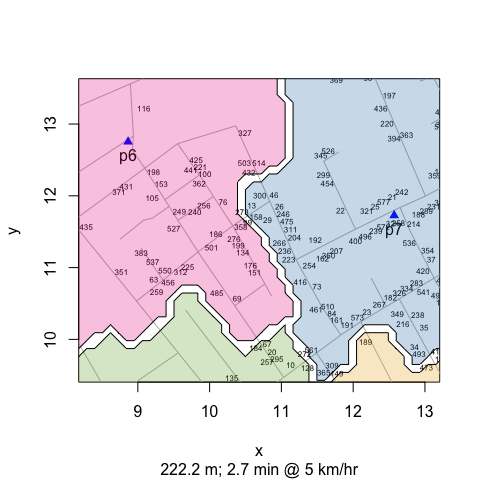
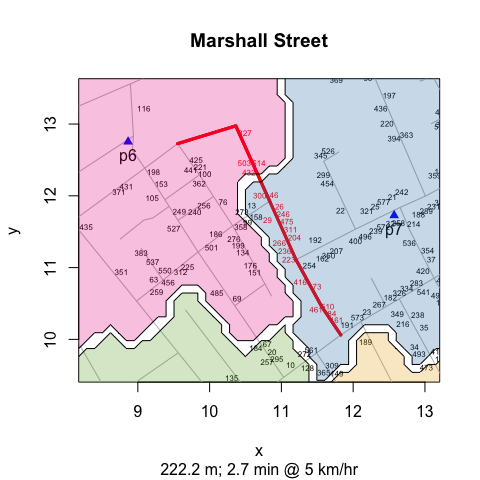
amend Marshall Street plot

diff --git a/README.md b/README.md
@@ -1,8 +1,5 @@
 
 <!-- README.md is generated from README.Rmd. Please edit that file -->
-[![CRAN\_Status\_Badge](http://www.r-pkg.org/badges/version/cholera)](https://cran.r-project.org/package=cholera)
-[![GitHub\_Status\_Badge](https://img.shields.io/badge/GitHub-0.5.1.9024-red.svg)](https://github.com/lindbrook/cholera/blob/master/NEWS)
-
 cholera: amend, augment and aid analysis of Snow's cholera map
 --------------------------------------------------------------
 
@@ -90,8 +87,7 @@ plot(neighborhoodWalking(case.set = "expected"), type = "area.polygons")
 The main virtue of the polygon approach is that it better lends itself to building graphs at different scales:
 
 ``` r
-streetNameLocator("marshall street", zoom = TRUE, highlight = FALSE,
-  add.title = FALSE, radius = 0.5)
+streetNameLocator("marshall street", zoom = TRUE, radius = 0.5)
 addNeighborhoodWalking()
 ```
 
@@ -117,12 +113,7 @@ Read the package vignettes (and the lab notes, if interested). They expand on th
 
 They are also available online at the links below:
 
-[Pump Neighborhoods](https://github.com/lindbrook/cholera/blob/master/docs/pump.neighborhoods.md) [+ lab notes](https://github.com/lindbrook/cholera/blob/master/docs/pump.neighborhoods.notes.md)   
-[Duplicate and Missing Cases](https://github.com/lindbrook/cholera/blob/master/docs/duplicate.missing.cases.md) [+ lab notes](https://github.com/lindbrook/cholera/blob/master/docs/duplicate.missing.cases.notes.md)   
-["Unstacking" Bars](https://github.com/lindbrook/cholera/blob/master/docs/unstacking.bars.md) [+ lab notes](https://github.com/lindbrook/cholera/blob/master/docs/unstacking.bars.notes.md)   
-[Roads](https://github.com/lindbrook/cholera/blob/master/docs/roads.md)   
-[Time Series](https://github.com/lindbrook/cholera/blob/master/docs/time.series.md)   
-[Kernel Density Plot](https://github.com/lindbrook/cholera/blob/master/docs/kernel.density.md)
+[Pump Neighborhoods](https://github.com/lindbrook/cholera/blob/master/docs/pump.neighborhoods.md) [+ lab notes](https://github.com/lindbrook/cholera/blob/master/docs/pump.neighborhoods.notes.md) [Duplicate and Missing Cases](https://github.com/lindbrook/cholera/blob/master/docs/duplicate.missing.cases.md) [+ lab notes](https://github.com/lindbrook/cholera/blob/master/docs/duplicate.missing.cases.notes.md) ["Unstacking" Bars](https://github.com/lindbrook/cholera/blob/master/docs/unstacking.bars.md) [+ lab notes](https://github.com/lindbrook/cholera/blob/master/docs/unstacking.bars.notes.md) [Roads](https://github.com/lindbrook/cholera/blob/master/docs/roads.md) [Time Series](https://github.com/lindbrook/cholera/blob/master/docs/time.series.md) [Kernel Density Plot](https://github.com/lindbrook/cholera/blob/master/docs/kernel.density.md)
 
 ### note
 

diff --git a/docs/pump.neighborhoods.md b/docs/pump.neighborhoods.md
@@ -91,8 +91,7 @@ plot(neighborhoodWalking(case.set = "expected"), type = "area.points")
 The main virtue of the polygon approach is that it better lends itself to building graphs at different scales. Details about the implementation of neighborhood polygons are found in this vignette's lab notes, which are avalable [online](https://github.com/lindbrook/cholera/blob/master/docs/pump.neighborhoods.notes.md) and in the package's GitHub repository.
 
 ``` r
-streetNameLocator("marshall street", zoom = TRUE, highlight = FALSE,
-  add.title = FALSE, radius = 0.5)
+streetNameLocator("marshall street", zoom = TRUE, radius = 0.5)
 addNeighborhoodWalking()
 ```
 
